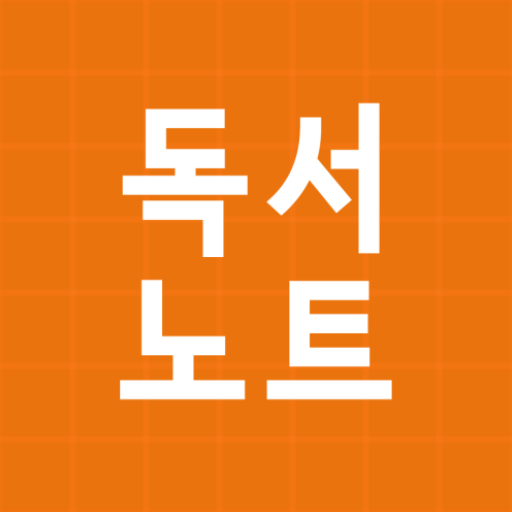
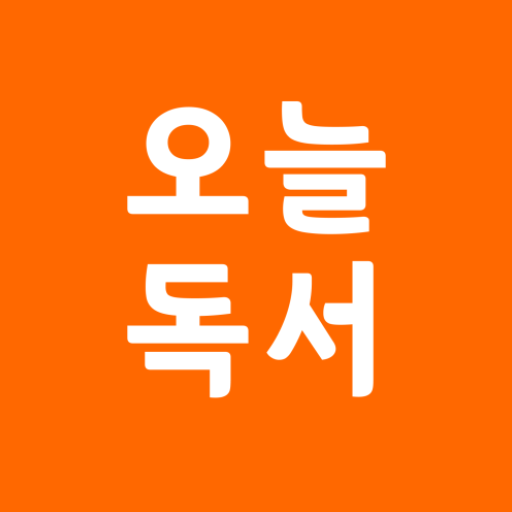
앱 아이콘 변경 / crashlytics 적용 / 서버 변경에 따른 호출 주소 변경

Changed region(s): [[0.2188, 0.1875, 0.7812, 0.7812]]

diff --git a/BookHistory/app/src/main/java/com/ejstudio/bookhistory/data/api/ApiClient.kt b/BookHistory/app/src/main/java/com/ejstudio/bookhistory/data/api/ApiClient.kt
@@ -1,16 +1,16 @@
 package com.ejstudio.bookhistory.data.api
 
 object ApiClient {
-    const val BASE_URL = "http://edit0.dothome.co.kr/bookhistory/"
+    const val BASE_URL = ""
     const val KAKAO_BASE_URL = "https://dapi.kakao.com/"
-    const val KAKAO_API_KEY = "362686b9e5f6e704733a57f10298315e"
+    const val KAKAO_API_KEY = ""
     const val BOOK_BASE_URL = "http://data4library.kr/api/"
[1 lines of base64/hex data omitted]
-    const val IMAGE_BASE_URL = "http://edit0@edit0.dothome.co.kr/bookhistory/image/imageMemo/"
+    const val BOOK_API_KEY = ""
+    const val IMAGE_BASE_URL = ""
 
-    const val RECENT_POPULAR_BOOK = "getRecentPopularBook"
-    const val RECOMMEND_BOOK = "getRecommendBook"
-    const val ALWAYS_POPULAR_BOOK = "getAlwaysPopularBook"
+    const val RECENT_POPULAR_BOOK = ""
+    const val RECOMMEND_BOOK = ""
+    const val ALWAYS_POPULAR_BOOK = ""
     const val FORMAT_JSON = "json"
 
     const val GOOGLE_PLAYSTORE_APP_PAGE = ""

diff --git a/BookHistory/app/src/main/java/com/ejstudio/bookhistory/presentation/view/adapter/main/mybookhistory/CalendarDateMemoAdapter.kt b/BookHistory/app/src/main/java/com/ejstudio/bookhistory/presentation/view/adapter/main/mybookhistory/CalendarDateMemoAdapter.kt
@@ -132,7 +132,7 @@ class CalendarDateMemoAdapter: RecyclerView.Adapter<RecyclerView.ViewHolder>() {
         super.getItemViewType(position)
         var viewType = 0
 
-        var aBoolean = items.get(position).memo_contents.contains("http://edit0@edit0.dothome.co.kr/bookhistory/image/imageMemo/")
+        var aBoolean = items.get(position).memo_contents.contains("http://ec2-3-35-209-180.ap-northeast-2.compute.amazonaws.com/bookhistory/image/imageMemo/")
 
         if(aBoolean) {
             viewType = VIEWTYPE_IMAGEMEMO

diff --git a/BookHistory/app/src/main/java/com/ejstudio/bookhistory/presentation/view/activity/SplashActivity.kt b/BookHistory/app/src/main/java/com/ejstudio/bookhistory/presentation/view/activity/SplashActivity.kt
@@ -145,6 +145,8 @@ class SplashActivity : AppCompatActivity() {
 //                        finish()
 //                    })
 //            builder.create().show()
+            val intent = Intent(Intent.ACTION_VIEW, Uri.parse(ApiClient.GOOGLE_PLAYSTORE_APP_PAGE))
+            startActivity(intent)
             Toast.makeText(mActivity, version_code_message, Toast.LENGTH_LONG).show()
             finish()
         } else {
